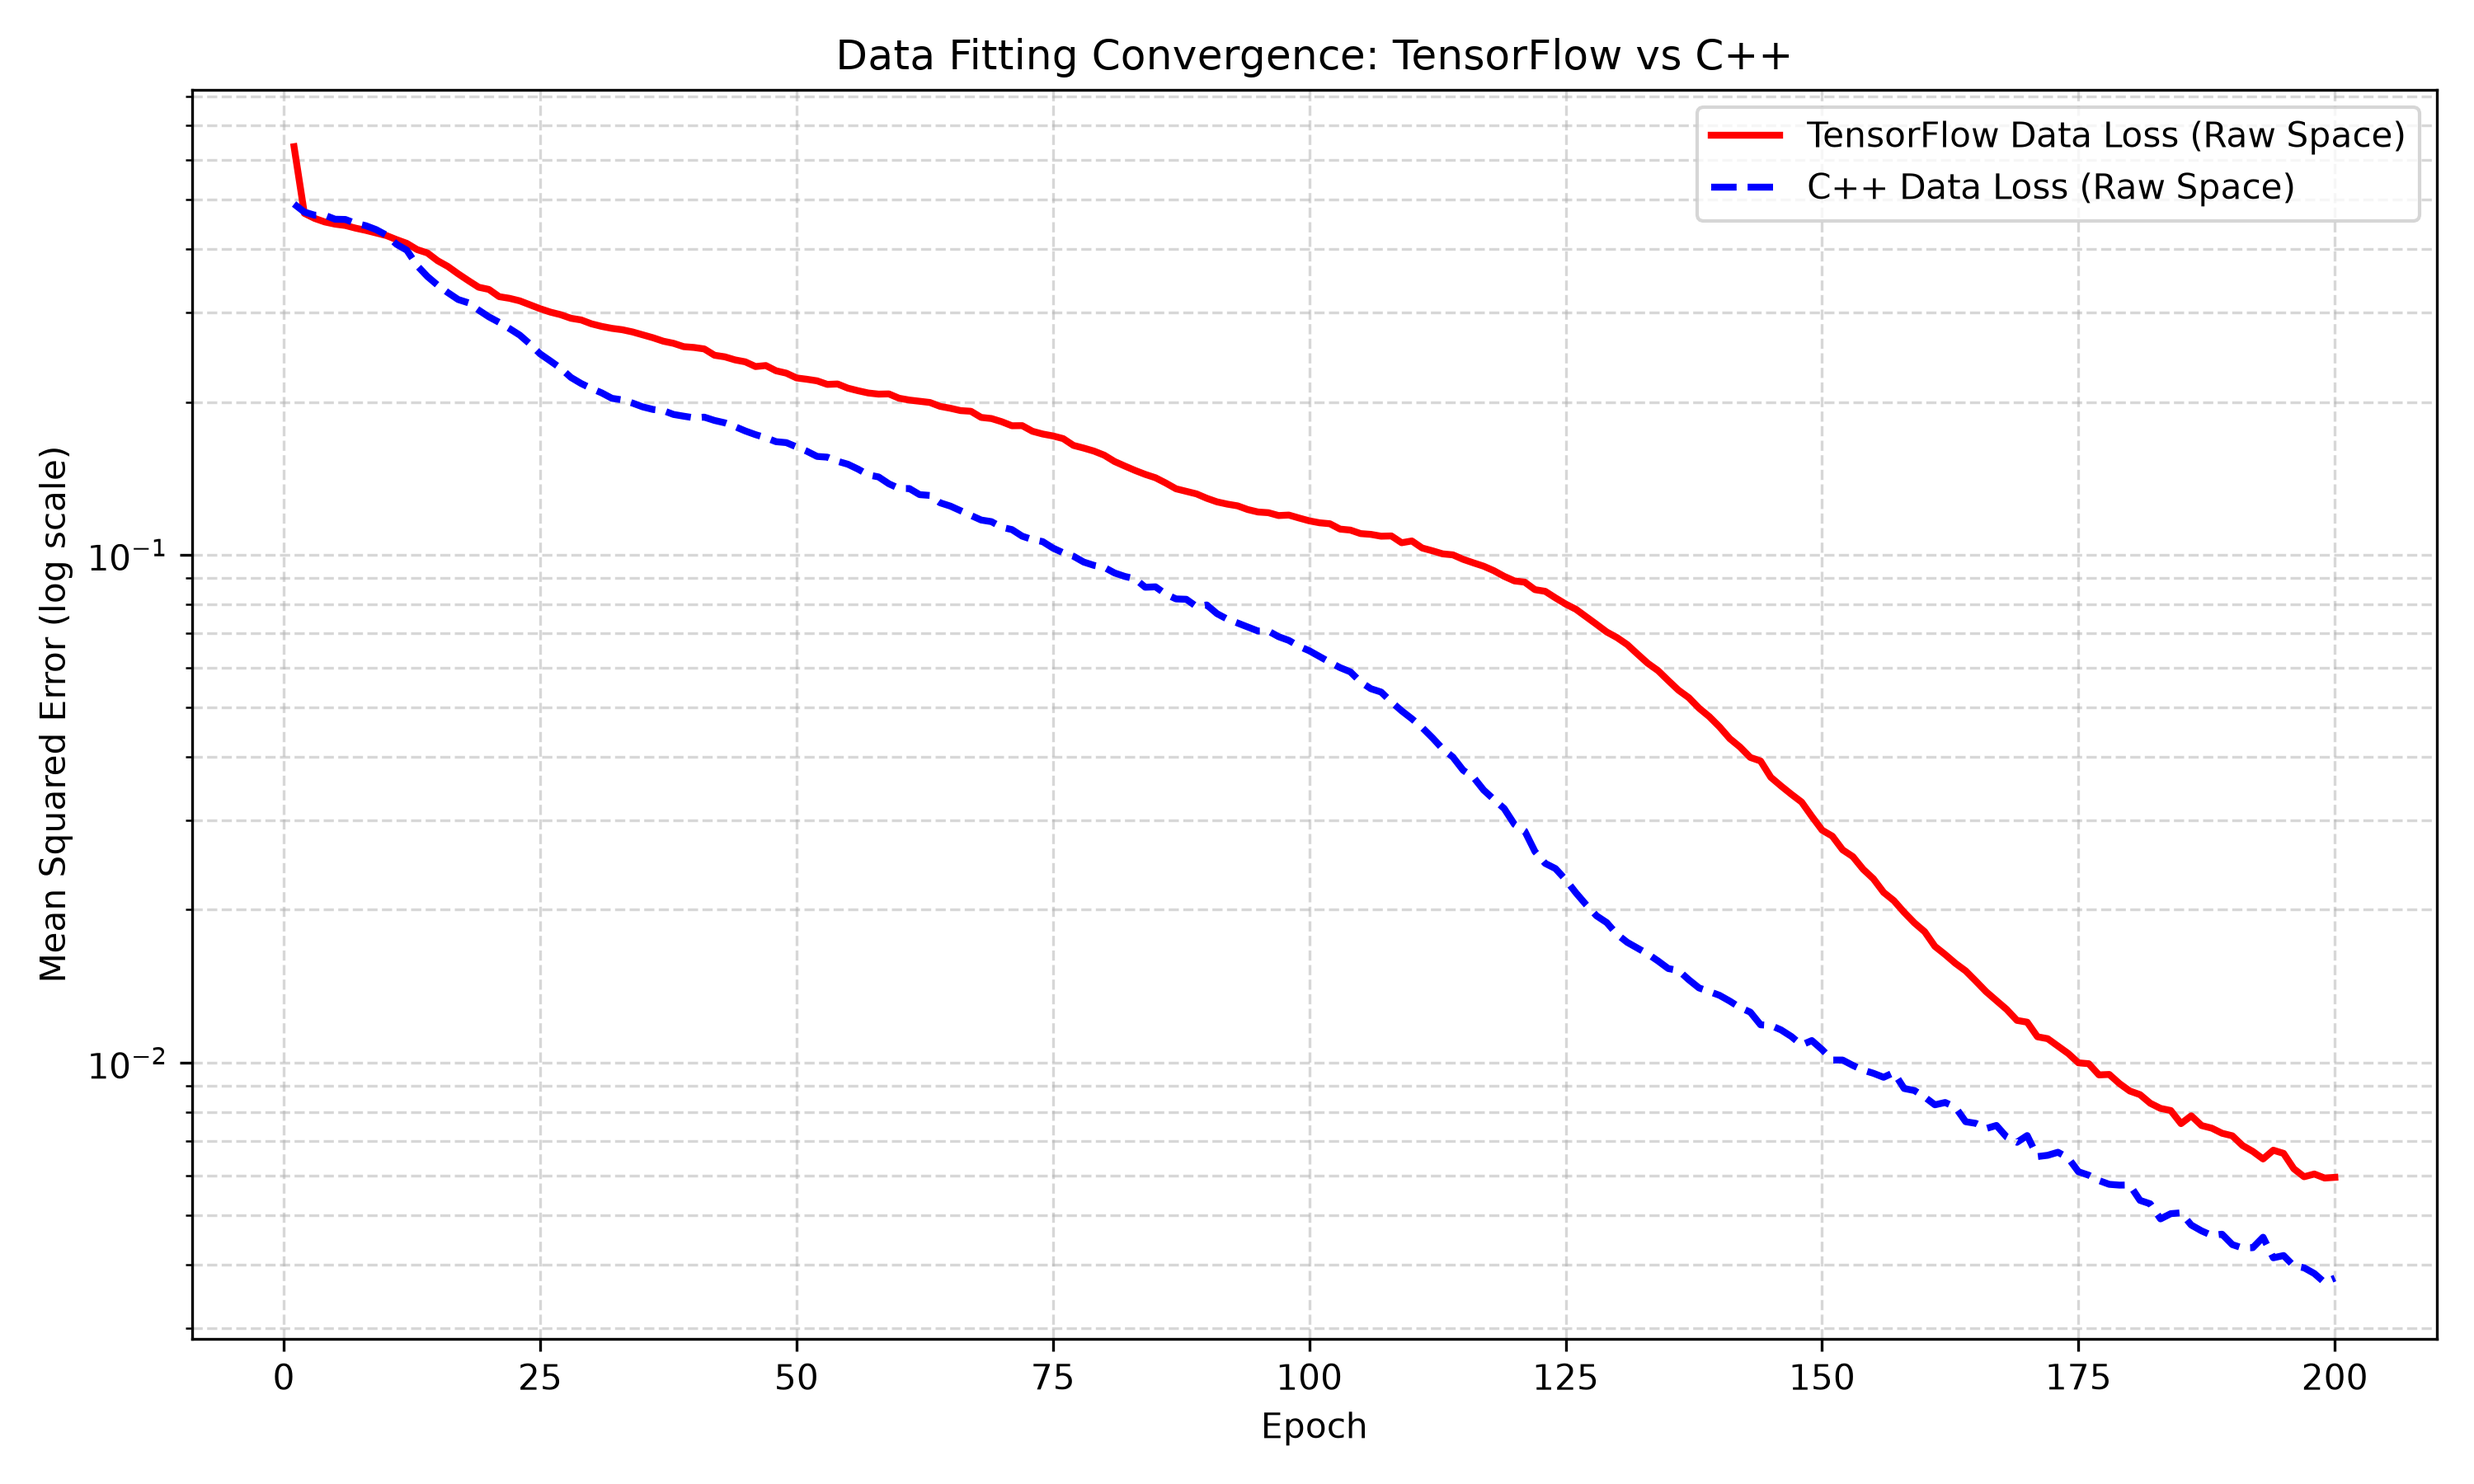
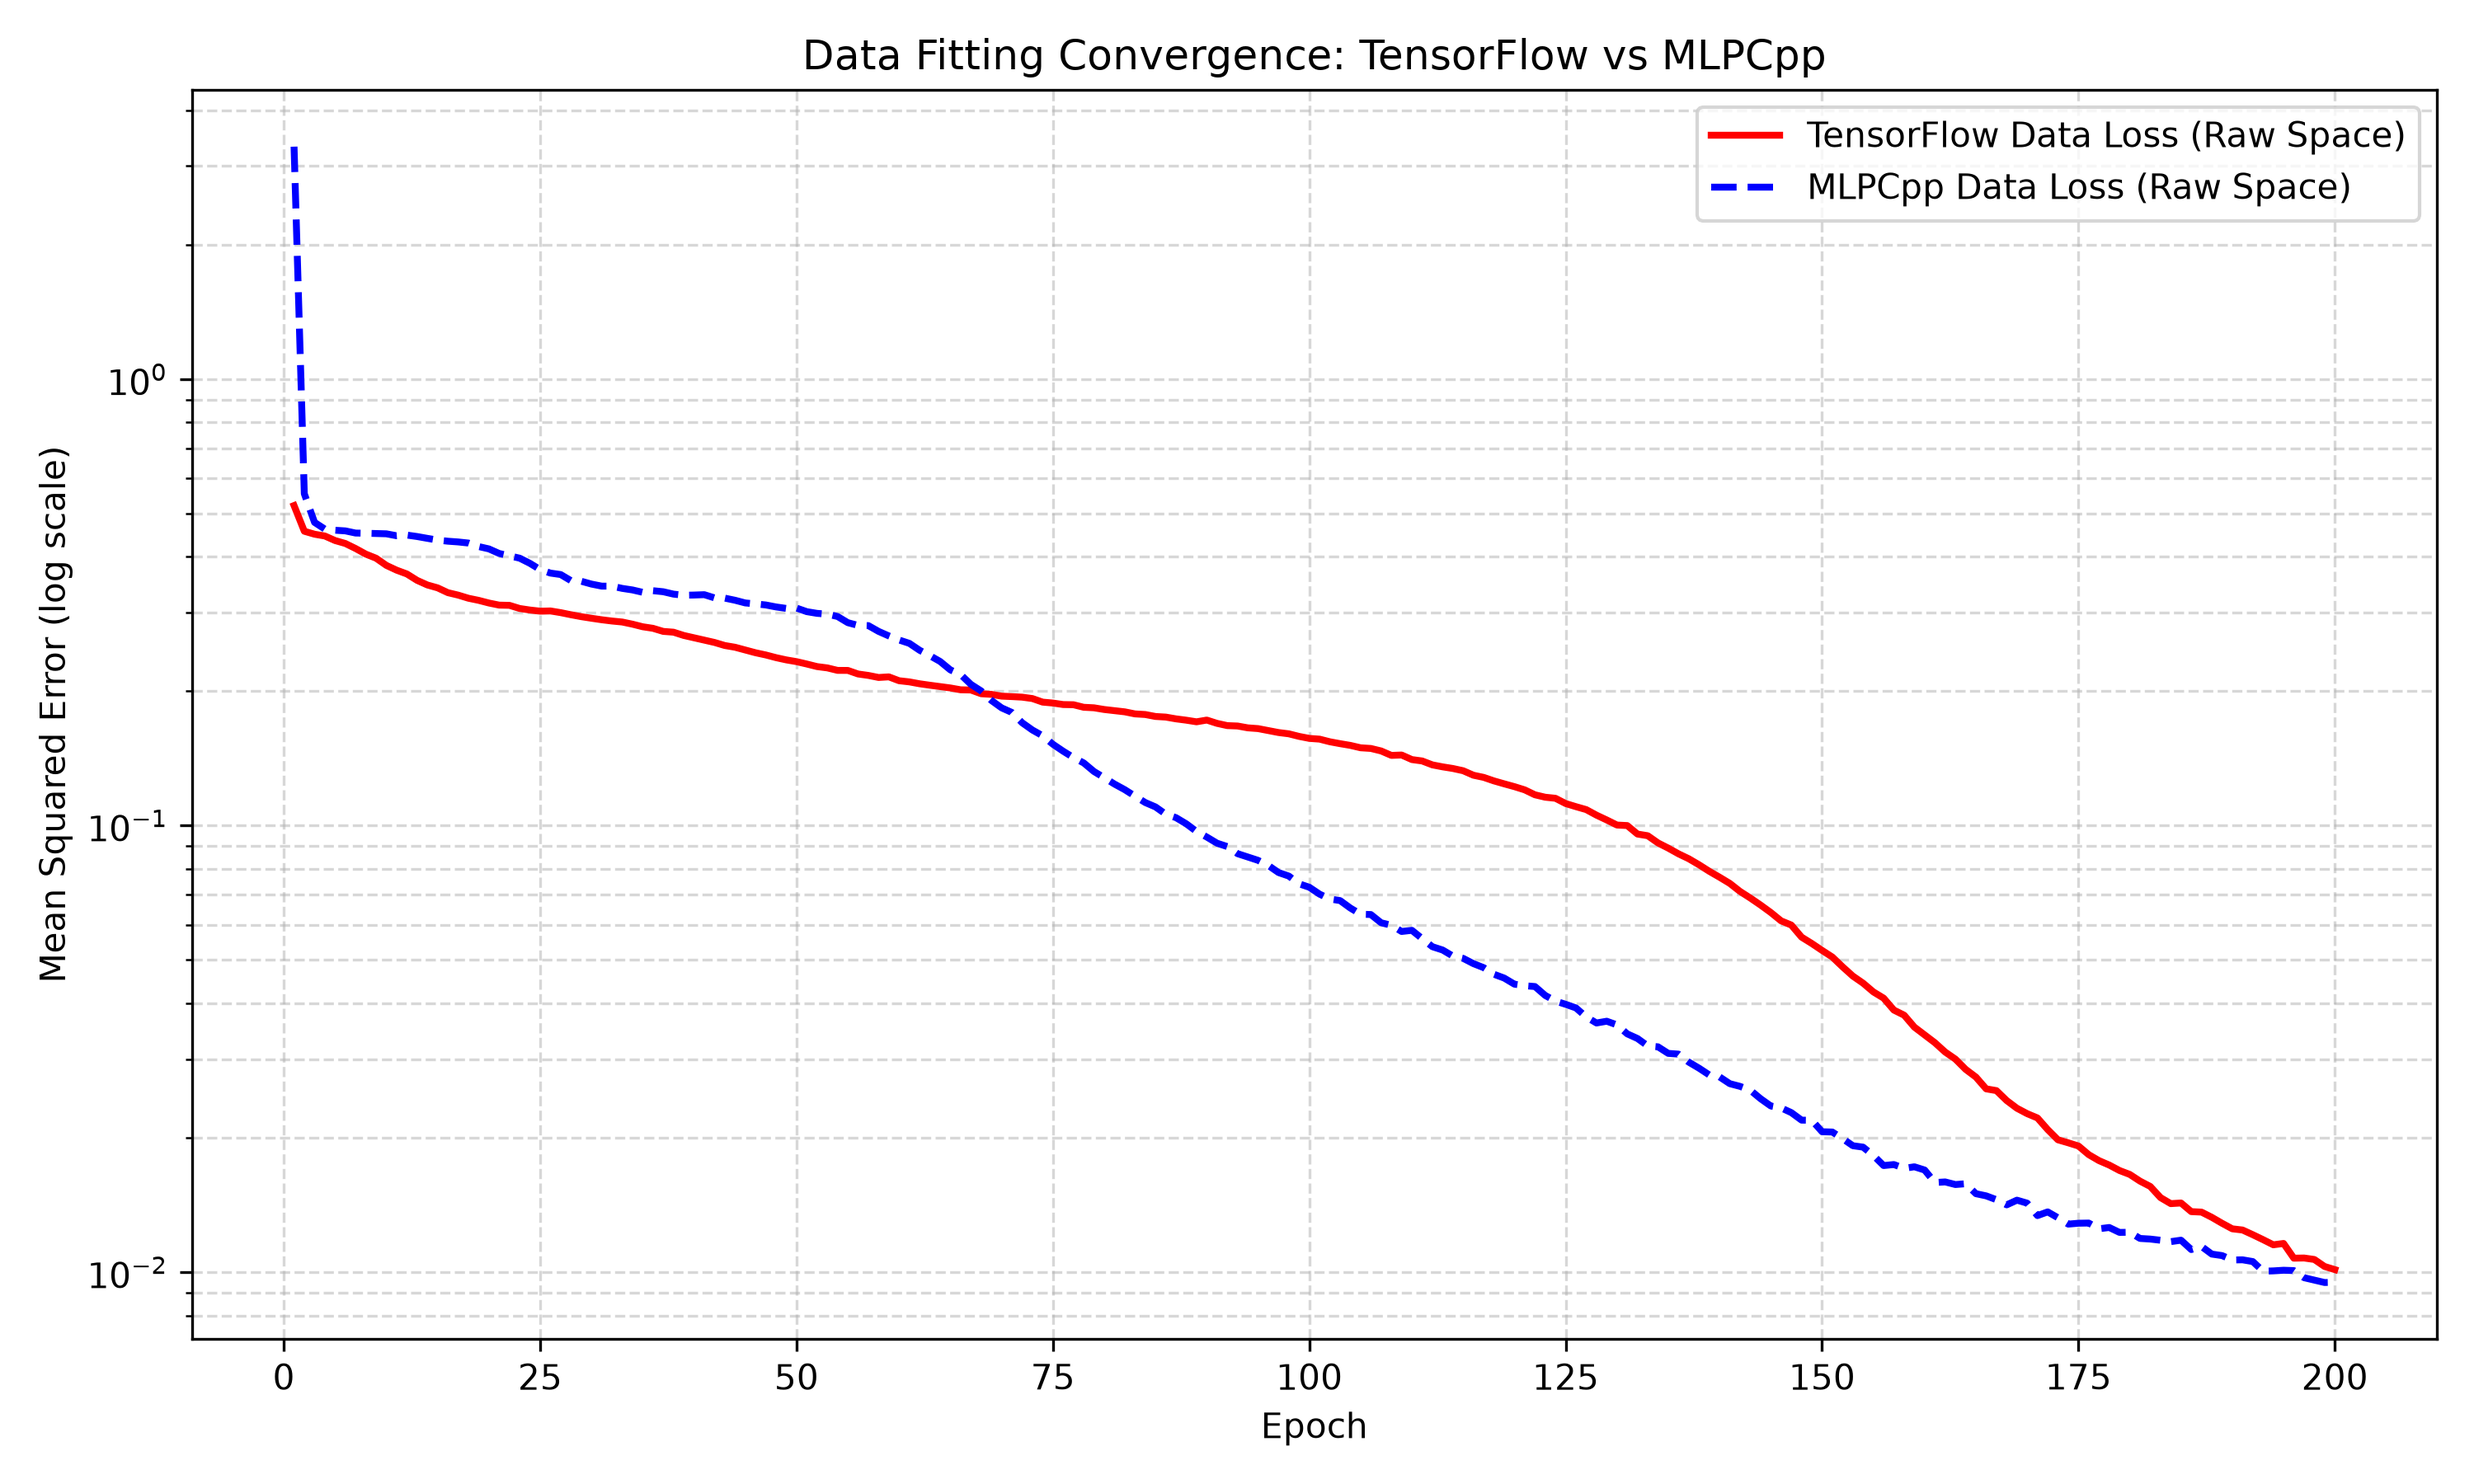
updated data file name in the visualiztion section

diff --git a/benchmark/benchmark_mlpcpp.cpp b/benchmark/benchmark_mlpcpp.cpp
@@ -131,20 +131,20 @@ int main() {
     // =========================================================================
     // 5. Create physics loss
     // =========================================================================
-    CPhysicsEquation eq;
-    eq.name = "dy_du_eq";
-    eq.input_names = {"u"};
-    eq.output_names = {"y"};
-    eq.weight = 1.0;
-    eq.requires_jacobian = true;
-    eq.requires_hessian = false;
-    eq.residual = [](const PhysicsState& state, const PhysicsData& /*data*/) -> mlpdouble {
-        return state.EquationJac(0, 0);
-    };
-    auto physics_loss = std::make_shared<CPhysicsLoss>(
-        "dy_du_zero", net.GetInputVars(), net.GetOutputVars(),
-        std::vector<std::string>{}, std::vector<CPhysicsEquation>{eq}
-    );
+    // CPhysicsEquation eq;
+    // eq.name = "dy_du_eq";
+    // eq.input_names = {"u"};
+    // eq.output_names = {"y"};
+    // eq.weight = 1.0;
+    // eq.requires_jacobian = true;
+    // eq.requires_hessian = false;
+    // eq.residual = [](const PhysicsState& state, const PhysicsData& /*data*/) -> mlpdouble {
+    //     return state.EquationJac(0, 0);
+    // };
+    // auto physics_loss = std::make_shared<CPhysicsLoss>(
+    //     "dy_du_zero", net.GetInputVars(), net.GetOutputVars(),
+    //     std::vector<std::string>{}, std::vector<CPhysicsEquation>{eq}
+    // );
 
     // =========================================================================
     // 6. Create optimizer
@@ -170,7 +170,7 @@ int main() {
     trainer_cfg.physics_batch_size = 32;    
     trainer_cfg.conv_tol_abs       = 1e-8;
     trainer_cfg.conv_tol_rel       = 1e-6;
-    trainer_cfg.use_annealer       = true;   // Set to false for pure data comparison
+    trainer_cfg.use_annealer       = false;   // Set to false for pure data comparison
     trainer_cfg.verbose            = true;
     trainer_cfg.log_every          = 10;
     trainer_cfg.shuffle_per_epoch  = true;
@@ -189,21 +189,21 @@ int main() {
     // =========================================================================
     // 11. Register physics collocation set
     // =========================================================================
-    std::vector<std::vector<mlpdouble>> physics_points;
-    const int Ncoll = 200;
-    for (int i = 0; i < Ncoll; ++i) {
-        double t = static_cast<double>(i) / (Ncoll - 1);
-        physics_points.push_back({
-            mlpdouble(u_min + t * (u_max - u_min)),
-            mlpdouble(v_min + t * (v_max - v_min))
-        });
-    }
-    trainer.SetCollocationPoints("colloc", physics_points);
+    // std::vector<std::vector<mlpdouble>> physics_points;
+    // const int Ncoll = 200;
+    // for (int i = 0; i < Ncoll; ++i) {
+    //     double t = static_cast<double>(i) / (Ncoll - 1);
+    //     physics_points.push_back({
+    //         mlpdouble(u_min + t * (u_max - u_min)),
+    //         mlpdouble(v_min + t * (v_max - v_min))
+    //     });
+    // }
+    // trainer.SetCollocationPoints("colloc", physics_points);
 
     // =========================================================================
     // 12. Register physics loss with trainer (ENABLED for PINN)
     // =========================================================================
-    trainer.AddPhysicsLoss(physics_loss, "colloc");
+    // trainer.AddPhysicsLoss(physics_loss, "colloc");
 
     // =========================================================================
     // 13. Build trainer

diff --git a/benchmark/benchmark_tf_data_fit.py b/benchmark/benchmark_tf_data_fit.py
@@ -141,7 +141,7 @@ for NN in hidden_layers:
     model.add(tf.keras.layers.Dense(NN, activation='tanh', kernel_initializer="he_uniform"))
 model.add(tf.keras.layers.Dense(1, activation='linear'))
 
-# Save initial weights so C++ can start from the exact same point
+# Save initial weights so MLPCpp can start from the exact same point
 Translate_Tensorflow_MLP(file_out="initial_model", input_names=["u", "v"], output_names=["y"], model=model,
                          scaler_input=scaler_function_x, input_norm_1=input_norm_1, input_norm_2=input_norm_2,
                          scaler_output=scaler_function_y, output_norm_1=output_norm_1, output_norm_2=output_norm_2)
@@ -164,7 +164,7 @@ print(f"\n======================================")
 print(f"Final MSE (raw y space): {mse_raw:.10e}")
 print(f"======================================\n")
 
-# Optional: Save final model if you want to test your C++ inference tool separately later
+# Optional: Save final model if you want to test your MLPCpp inference tool separately later
 Translate_Tensorflow_MLP(file_out="MLP_test", input_names=["u", "v"], output_names=["y"], model=model,
                          scaler_input=scaler_function_x, input_norm_1=input_norm_1, input_norm_2=input_norm_2,
                          scaler_output=scaler_function_y, output_norm_1=output_norm_1, output_norm_2=output_norm_2)
@@ -172,14 +172,14 @@ Translate_Tensorflow_MLP(file_out="MLP_test", input_names=["u", "v"], output_nam
 # ============================================================================
 # 6. Visualize Convergence Comparison
 # ============================================================================
-# Convert TF normalized loss to raw y-space loss to match C++ output
+# Convert TF normalized loss to raw y-space loss to match MLPCpp output
 # MSE_raw = MSE_norm * (y_max - y_min)^2
 y_range = output_norm_2[0] - output_norm_1[0]
 tf_loss_raw = [loss * (y_range**2) for loss in history.history['loss']]
 tf_epochs = np.arange(1, len(tf_loss_raw) + 1)
 
-# Check if C++ history file exists
-cpp_file = "data_fitting_history.csv"
+# Check if MLPCpp history file exists
+cpp_file = "pinn_training_history.csv"
 try:
     cpp_data = np.genfromtxt(cpp_file, delimiter=',', names=True)
     cpp_epochs = cpp_data['epoch']
@@ -188,7 +188,7 @@ try:
     plt.figure(figsize=(10, 6))
     plt.semilogy(tf_epochs, tf_loss_raw, 'r-', label='TensorFlow Data Loss (Raw Space)', linewidth=2)
     plt.semilogy(cpp_epochs, cpp_loss_data, 'b--', label='MLPCpp Data Loss (Raw Space)', linewidth=2)
-    plt.title('Data Fitting Convergence: TensorFlow vs C++')
+    plt.title('Data Fitting Convergence: TensorFlow vs MLPCpp')
     plt.xlabel('Epoch')
     plt.ylabel('Mean Squared Error (log scale)')
     plt.grid(True, which="both", ls="--", alpha=0.5)
@@ -198,4 +198,4 @@ try:
     print("Convergence plot saved to convergence_comparison.png")
     
 except Exception as e:
-    print(f"Could not read {cpp_file} or plot. Make sure to run the C++ test case first. Error: {e}")
+    print(f"Could not read {cpp_file} or plot. Make sure to run the MLPCpp test case first. Error: {e}")
